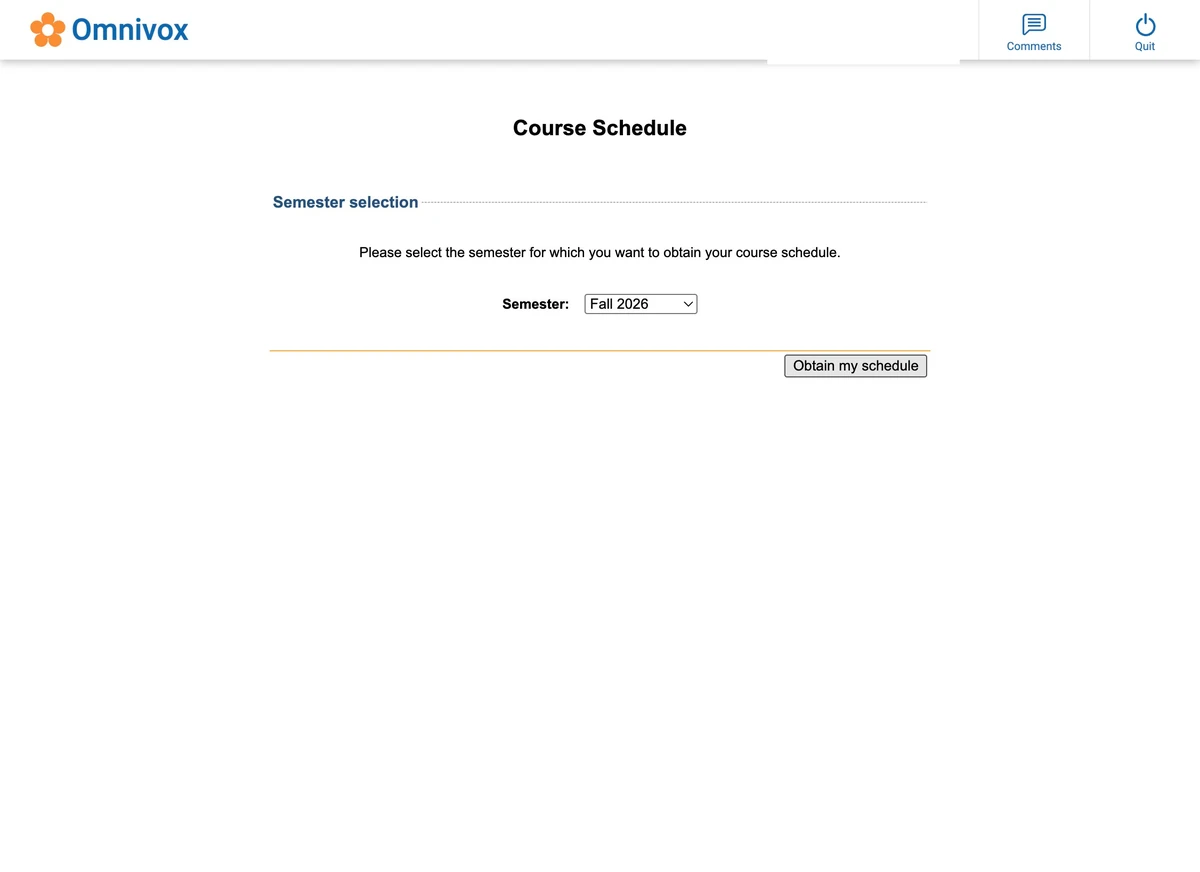
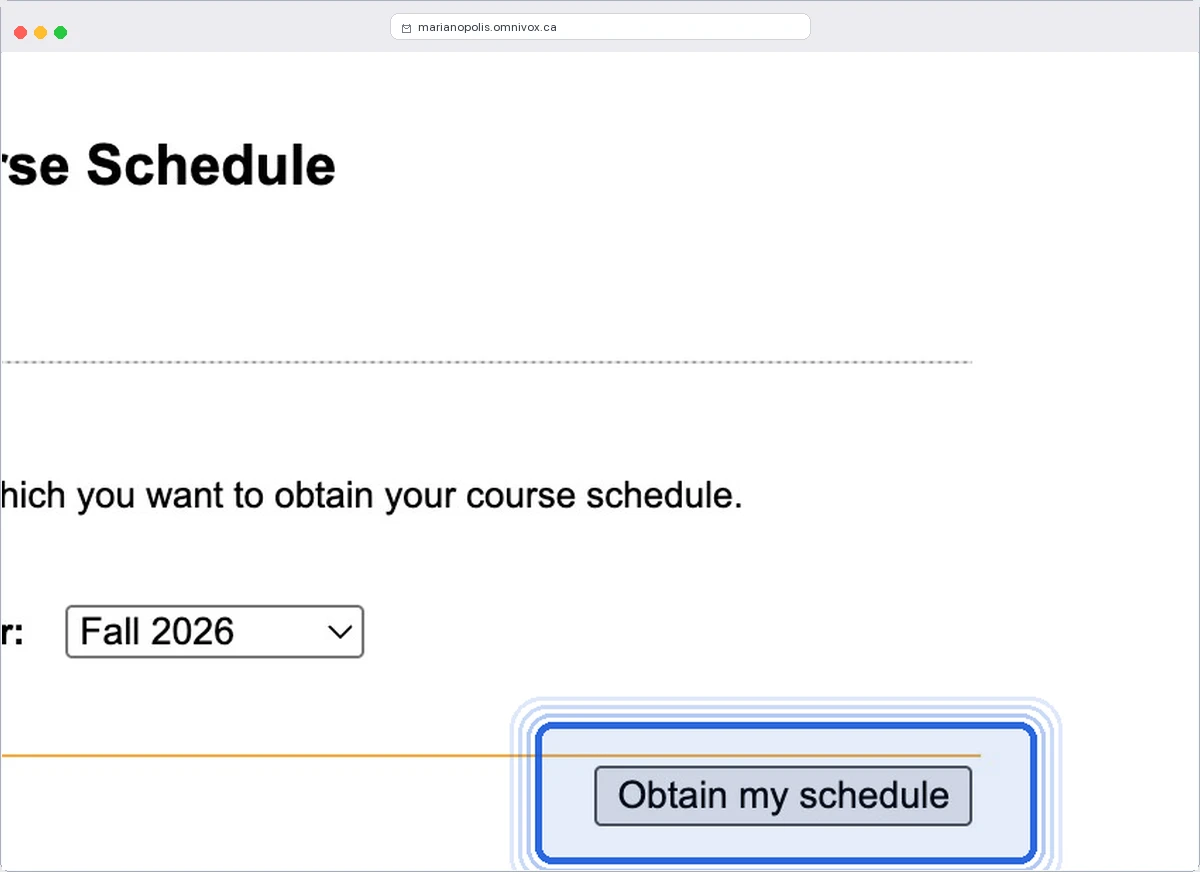
Restore Omnivox login photos and compose focused tutorial frames.
Rebuild Scribe captures with PII-only redaction, per-step crop/zoom,
press highlights, and macOS browser chrome so the guide shows real UI
targets instead of greyed login panels or sparse empty pages.

diff --git a/src/lib/maritools/styles/preview-pages.css b/src/lib/maritools/styles/preview-pages.css
@@ -2464,15 +2464,9 @@
 		box-shadow: 0 10px 24px rgb(var(--ink-rgb) / 20%);
 	}
 
+	/* Chrome is baked into step-NN.webp to avoid a double title bar. */
 	.mock-browser-bar {
-		display: flex;
-		align-items: center;
-		height: 35px;
-		padding: 0 11px;
-		border: 1px solid #bdc9d7;
-		border-bottom: 0;
-		background: #dfe6ee;
-		gap: 6px;
+		display: none;
 	}
 
 	.mock-browser-bar i {
@@ -2571,7 +2565,7 @@
 	.tutorial-screenshots {
 		position: absolute;
 		z-index: 2;
-		inset: 57px 22px 22px;
+		inset: 22px;
 	}
 
 	.tutorial-screenshots img {
